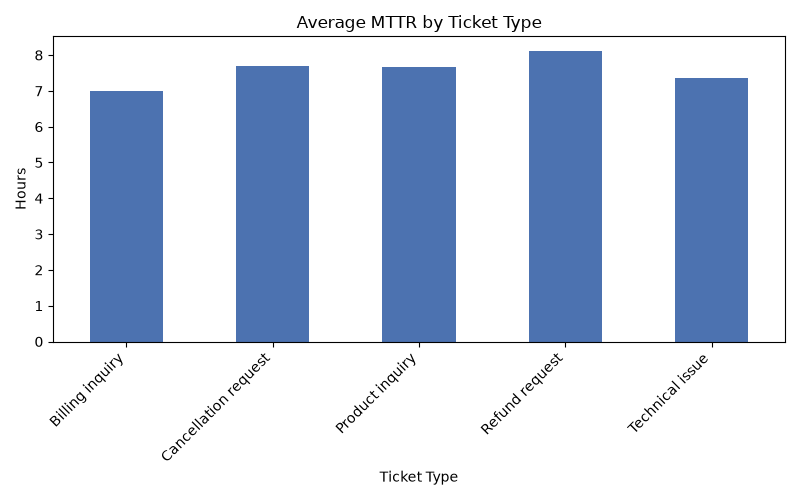
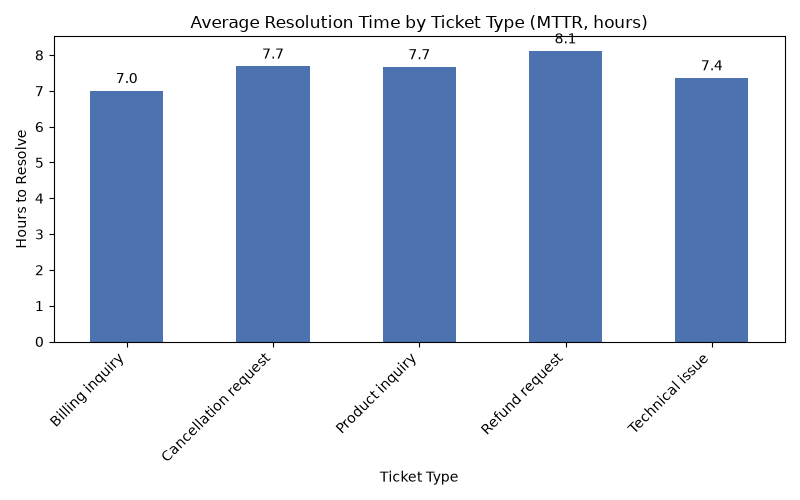
feat: improve chart readability with labels and clearer titles

diff --git a/analyzer/charts.py b/analyzer/charts.py
@@ -19,12 +19,14 @@ def mttr_bytype(mttr_series):
     fig, ax = plt.subplots(figsize=(8, 5))   # холст (fig) и оси (ax) 
     mttr_series.plot(kind="bar", ax=ax, color="#4C72B0")  #столбчатая диаграмма
 
-    ax.set_title("Average MTTR by Ticket Type")
+    ax.set_title("Average Resolution Time by Ticket Type (MTTR, hours)")
     ax.set_xlabel("Ticket Type")
-    ax.set_ylabel("Hours")
+    ax.set_ylabel("Hours to Resolve")
     plt.xticks(rotation=45, ha="right")#поворт подписей по оси х
-    plt.tight_layout()  #автоматически подгоняет отступы
+    for container in ax.containers:
+        ax.bar_label(container, fmt="%.1f", padding=3)
 
+    plt.tight_layout()  #автоматически подгоняет отступы
     return _fig_to_base64(fig)
 
 
@@ -46,12 +48,15 @@ def priority_distribution(priority_series):
     fig, ax = plt.subplots(figsize=(8, 5))
     priority_series.plot(kind="bar", ax=ax, color="#D152DD")
 
-    ax.set_title("Tickets by Priority")
+    ax.set_title("Number of Tickets by Priority Level")
     ax.set_xlabel("Priority")
     ax.set_ylabel("Number of Tickets")
     plt.xticks(rotation=0)
-    plt.tight_layout()
 
+    for container in ax.containers:
+        ax.bar_label(container, fmt="%d", padding=3)
+
+    plt.tight_layout()
     return _fig_to_base64(fig)
 
 
@@ -59,12 +64,15 @@ def priority_cchannel(priority_channel):
     fig, ax = plt.subplots(figsize=(8, 5))
     priority_channel.plot(kind="bar", ax=ax, color="#5D5BE0")
 
-    ax.set_title("Tickets by Channel")
+    ax.set_title("Number of Tickets by Support Channel")
     ax.set_xlabel("Channel")
     ax.set_ylabel("Number of Tickets")
     plt.xticks(rotation=0)
-    plt.tight_layout()
 
+    for container in ax.containers:
+        ax.bar_label(container, fmt="%d", padding=3)
+
+    plt.tight_layout()
     return _fig_to_base64(fig)
 
 
@@ -77,7 +85,8 @@ def heatmap_chart(heatmap_series):
     ax.set_title("Heatmap by hour")
     ax.set_xlabel("Hour")
     ax.set_ylabel("Count of Tickets")
+    ax.grid(True, alpha=0.3)
     plt.xticks(rotation=0)
-    plt.tight_layout()
 
+    plt.tight_layout()
     return _fig_to_base64(fig)